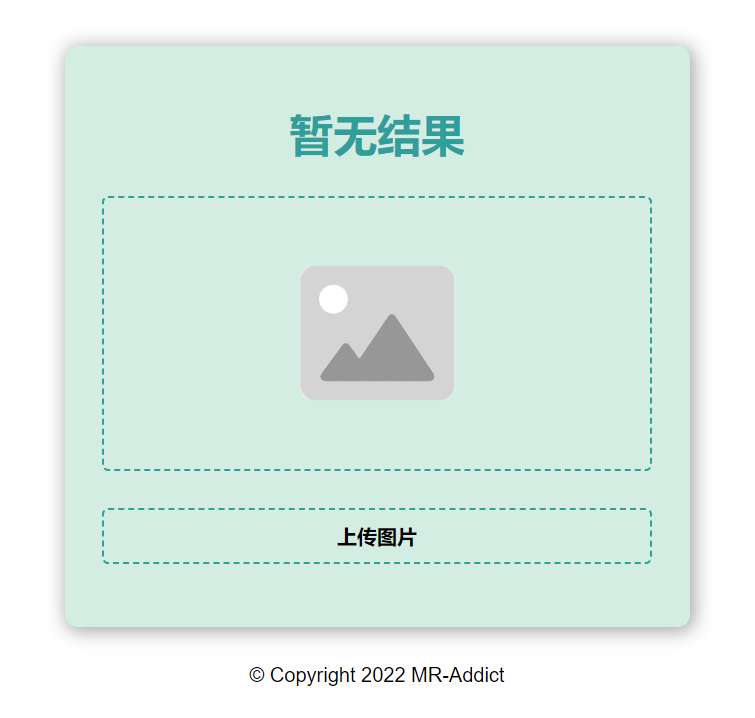
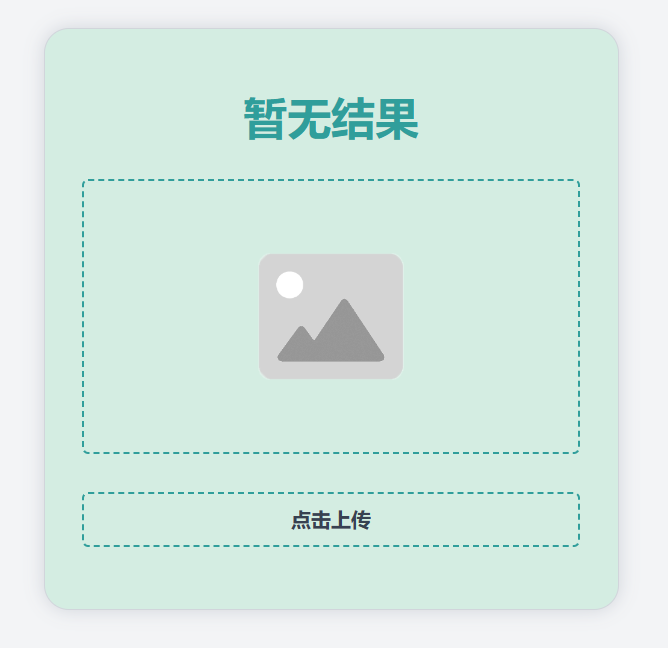
refator: update style and port

diff --git a/src/public/index.css b/src/public/index.css
@@ -10,27 +10,30 @@ html {
 }
 
 :root {
-  --pri-bcg: #fff;
-  --pri-green: #309e9b;
-  --pri-white: #fff;
-  --pri-gray: #aaa;
-  --pri-theme: #d4ede2;
+  --green: #309e9b;
+  --gray-700: #374151;
+  --gray-500: #6b7280;
+  --gray-300: #d1d5db;
+  --gray-100: #f3f4f6;
 }
 
 /* body */
 body {
+  font-size: 1.6rem;
   min-height: 100vh;
-  background: var(--pri-bcg);
+  background: var(--gray-100);
 
   display: flex;
   flex-direction: column;
   align-items: center;
-  justify-content: center;
+  justify-content: space-between;
 }
 
 /* container */
 .container {
-  width: 50rem;
+  width: 100vw;
+  padding: 2rem;
+  max-width: 50rem;
 
   gap: 1rem;
   display: flex;
@@ -43,7 +46,7 @@ body {
 .main {
   width: 100%;
   padding: 5rem 3rem;
-  border-radius: 1rem;
+  border-radius: 2rem;
 
   gap: 3rem;
   display: flex;
@@ -51,8 +54,9 @@ body {
   align-items: center;
   justify-content: center;
 
-  background: var(--pri-theme);
-  box-shadow: 0.2rem 0.2rem 1.4rem 0.2rem var(--pri-gray);
+  background: #d4ede2;
+  border: solid 1px var(--gray-300);
+  box-shadow: 0 0 15px var(--gray-300);
 }
 
 /* form */
@@ -73,8 +77,9 @@ body {
   padding: 1rem;
   font-size: 1.6rem;
   border-radius: 0.5rem;
-  border: solid 0.2rem var(--pri-green);
+  border: solid 0.2rem var(--green);
   border-style: dashed;
+  color: var(--gray-700);
 
   font-weight: bold;
   display: block;
@@ -89,7 +94,7 @@ body {
   padding: 0.5rem;
   font-size: 1.6rem;
   border-radius: 0.5rem;
-  border: solid 0.2rem var(--pri-green);
+  border: solid 0.2rem var(--green);
   border-style: dashed;
 
   object-fit: contain;
@@ -102,7 +107,7 @@ body {
   font-size: 3.5rem;
   font-weight: bold;
   border-radius: 0.5rem;
-  color: var(--pri-green);
+  color: var(--green);
 
   display: flex;
   flex-direction: column;
@@ -112,20 +117,10 @@ body {
 
 /* footer */
 footer {
-  margin: 3rem 0;
-  font-size: 1.6rem;
-  color: var(--pri-gray);
+  margin: 2rem 0;
+  color: var(--gray-500);
 }
 
-footer a{
-  color: var(--pri-gray);
-}
-
-@media screen and (max-width: 800px) {
-  html {
-    font-size: 55%;
-  }
-  .container {
-    width: 35rem;
-  }
+footer a {
+  color: var(--gray-500);
 }

diff --git a/src/public/index.html b/src/public/index.html
@@ -1,24 +1,30 @@
 <!DOCTYPE html>
-<html lang="en">
+<html lang="zh-Hans">
   <head>
     <meta charset="UTF-8" />
     <link rel="shortcut icon" href="images/favicon.png" type="image/x-icon" />
-    <meta http-equiv="X-UA-Compatible" content="IE=edge" />
     <meta name="viewport" content="width=device-width, initial-scale=1.0" />
+    <meta name="description" content="Captcha识别器" />
     <link rel="stylesheet" href="index.css" />
     <script src="index.js" defer></script>
     <title>Captcha识别器</title>
   </head>
   <body>
+    <span></span>
     <div class="container">
       <div class="main">
         <p>暂无结果</p>
         <img src="images/default.png" alt="captcha" />
-        <div class="form">
-          <label for="captcha_input">上传图片</label>
-          <input type="file" name="captcha" id="captcha_input" onchange="handleUpload(event)" />
-        </div>
+        <form class="form">
+          <label for="captcha_input">点击上传</label>
+          <input required type="file" name="captcha" id="captcha_input" onchange="handleUpload(event)" />
+        </form>
       </div>
     </div>
+    <footer></footer>
+    <script>
+      const footer = document.querySelector("footer");
+      footer.innerHTML = `<span>Copyright &copy; ${new Date().getFullYear()}</span> • <a href="https://github.com/MR-Addict"> MR-Addict</a> • <a href="https://github.com/MR-Addict/captcha">Github</a> • <a href="/docs">API</a>`;
+    </script>
   </body>
 </html>

diff --git a/src/public/index.js b/src/public/index.js
@@ -1,10 +1,3 @@
-// load footer
-window.onload = function () {
-  const footer = document.createElement("footer");
-  footer.innerHTML = `<footer">&copy; Copyright ${new Date().getFullYear()} | <a href="https://github.com/MR-Addict">MR-Addict</a> | <a href="https://github.com/MR-Addict/captcha">Source</a></footer>`;
-  document.body.appendChild(footer);
-};
-
 // handle upload
 async function handleUpload(event) {
   const captcha = event.target.files[0];
@@ -16,7 +9,7 @@ async function handleUpload(event) {
   formData.append("captcha", captcha);
   const respone = await fetch("/", { method: "POST", body: formData });
   const message = await respone.json();
-  if (respone.ok && message.status) {
+  if (respone.ok && message.success) {
     document.querySelector(".main p").innerText = message.message;
   } else {
     document.querySelector(".main p").innerText = "识别失败";

diff --git a/src/index.py b/src/index.py
@@ -5,10 +5,11 @@ from fastapi import FastAPI, UploadFile
 from fastapi.staticfiles import StaticFiles
 
 app = FastAPI(
-    title="Captcha API",
     version="1.0",
+    title="Captcha API",
     swagger_ui_parameters={"defaultModelsExpandDepth": -1}
 )
+
 ocr = ddddocr.DdddOcr(
     beta=False,
     show_ad=False,
@@ -17,19 +18,19 @@ ocr = ddddocr.DdddOcr(
 
 
 @app.post("/", tags=["Captcha"])
-async def handle_captcha_upload(captcha: Union[UploadFile, None] = None):
+async def handle_captcha_post(captcha: Union[UploadFile, None] = None):
     if not captcha:
-        return {"status": False, "message": "No file upload"}
-    elif captcha.filename.split(".")[-1].lower() not in ["jpg", "jpeg", "png", "svg"]:
-        return {"status": False, "message": "File type not support"}
+        return {"success": False, "message": "No file"}
+    elif captcha.filename.split(".")[-1].lower() not in ["jpg", "jpeg", "png", "svg", "wepb"]:
+        return {"success": False, "message": "File type not support"}
     else:
         data = await captcha.read()
         if len(data) > 1*1024**2:
-            return {"status": False, "message": "File size too big"}
+            return {"success": False, "message": "File too big"}
         else:
-            return {"status": True, "message": ocr.classification(data)}
+            return {"success": True, "message": ocr.classification(data)}
 
 
 app.mount("/", StaticFiles(directory="public", html=True), name="public")
 if __name__ == "__main__":
-    uvicorn.run("index:app", host="0.0.0.0", port=8000, log_level="info")
+    uvicorn.run("index:app", host="0.0.0.0", port=45547, log_level="info")

diff --git a/README.md b/README.md
@@ -1,21 +1,18 @@
-<h1>
-  Captcha识别器
-  <img src="https://github.com/MR-Addict/captcha/actions/workflows/docker.yml/badge.svg?branch=main"/>
-</h1>
+# Captcha 识别器 ![docker](https://github.com/MR-Addict/captcha/actions/workflows/docker.yml/badge.svg?branch=main)
 
 ## 1. 如何搭建
 
-### 1.1 Docker部署
+### 1.1 Docker 部署
 
 #### 1.1.1 一键部署
 
 一键部署：
 
 ```bash
-docker run --restart=unless-stopped -p 8000:8000 -d --name captcha mraddict063/captcha
+docker run --restart=unless-stopped -p 45547:45547 -d --name captcha mraddict063/captcha
 ```
 
-docker-compose版：
+docker-compose 版：
 
 ```bash
 docker-compose up -d
@@ -38,7 +35,7 @@ docker build -t captcha .
 启动镜像：
 
 ```bash
-docker run --restart=always -p 8000:8000 -d --name captcha captcha
+docker run --restart=always -p 45547:45547 -d --name captcha captcha
 ```
 
 ### 1.2 本地部署
@@ -49,13 +46,13 @@ docker run --restart=always -p 8000:8000 -d --name captcha captcha
 git clone https://github.com/MR-Addict/captcha.git
 ```
 
-安装python依赖：
+安装 python 依赖：
 
 ```bash
 python install -r requirements
 ```
 
-启动App：
+启动 App：
 
 ```bash
 uvicorn index:app --reload
@@ -63,9 +60,9 @@ uvicorn index:app --reload
 
 ## 2. 如何使用
 
-### 2.1 使用API接口
+### 2.1 使用 API 接口
 
-服务器请自行部署，API接口用法如下：
+服务器请自行部署，API 接口用法如下：
 
 |  参数   |    值    |
 | :-----: | :------: |
@@ -75,7 +72,7 @@ uvicorn index:app --reload
 #### 2.1.1 curl
 
 ```bash
-curl -skL http://localhost:8000 -F captcha=@captcha.jpg
+curl -skL http://localhost:45547 -F captcha=@captcha.jpg
 ```
 
 #### 2.1.2 python
@@ -87,7 +84,7 @@ import requests
 
 def decode_captcha(img_path):
     files = {'captcha': open(img_path, 'rb')}
-    response = requests.post("http://localhost:8000", files=files)
+    response = requests.post("http://localhost:45547", files=files)
     return json.loads(response.text)
 
 
@@ -97,23 +94,23 @@ if __name__ == '__main__':
 
 > 注意：其他语言和脚本使用方法可自行查询参考
 
-### 2.2 使用Web UI
+### 2.2 使用 Web UI
 
-部署好服务器后，直接打开其本地Web地址上传图片即可：
+部署好服务器后，直接打开其本地 Web 地址上传图片即可：
 
-- [http://localhost:8000](http://localhost:8000)
+- [http://localhost:45547](http://localhost:45547)
 
 ![captcha](images/captcha.png)
 
 ## 3. 说明
 
-本项目核心Captcha识别使用了ddddocr的Python库，详细内容可参考sml2h3的[GitHub项目](https://github.com/sml2h3/ddddocr)。
+本项目核心 Captcha 识别使用了 ddddocr 的 Python 库，详细内容可参考 sml2h3 的[GitHub 项目](https://github.com/sml2h3/ddddocr)。
 
-另外本项目也使用了sml2h3的[ddddocr训练项目](https://github.com/sml2h3/dddd_trainer)，来训练适合南京工业大学的校园网登录图形验证码。
+另外本项目也使用了 sml2h3 的[ddddocr 训练项目](https://github.com/sml2h3/dddd_trainer)，来训练适合南京工业大学的校园网登录图形验证码。
 
-使用自己训练的模型，1000张样本识别的成功率可保持在100%。默认模型识别的成功率也很高，1000张样本只有6、7张左右的错误。
+使用自己训练的模型，1000 张样本识别的成功率可保持在 100%。默认模型识别的成功率也很高，1000 张样本只有 6、7 张左右的错误。
 
-如果你想使用默认的模型，可以注释掉`src/index.py`中的有关model的内容：
+如果你想使用默认的模型，可以注释掉`src/index.py`中的有关 model 的内容：
 
 ```python
 ocr = ddddocr.DdddOcr(
